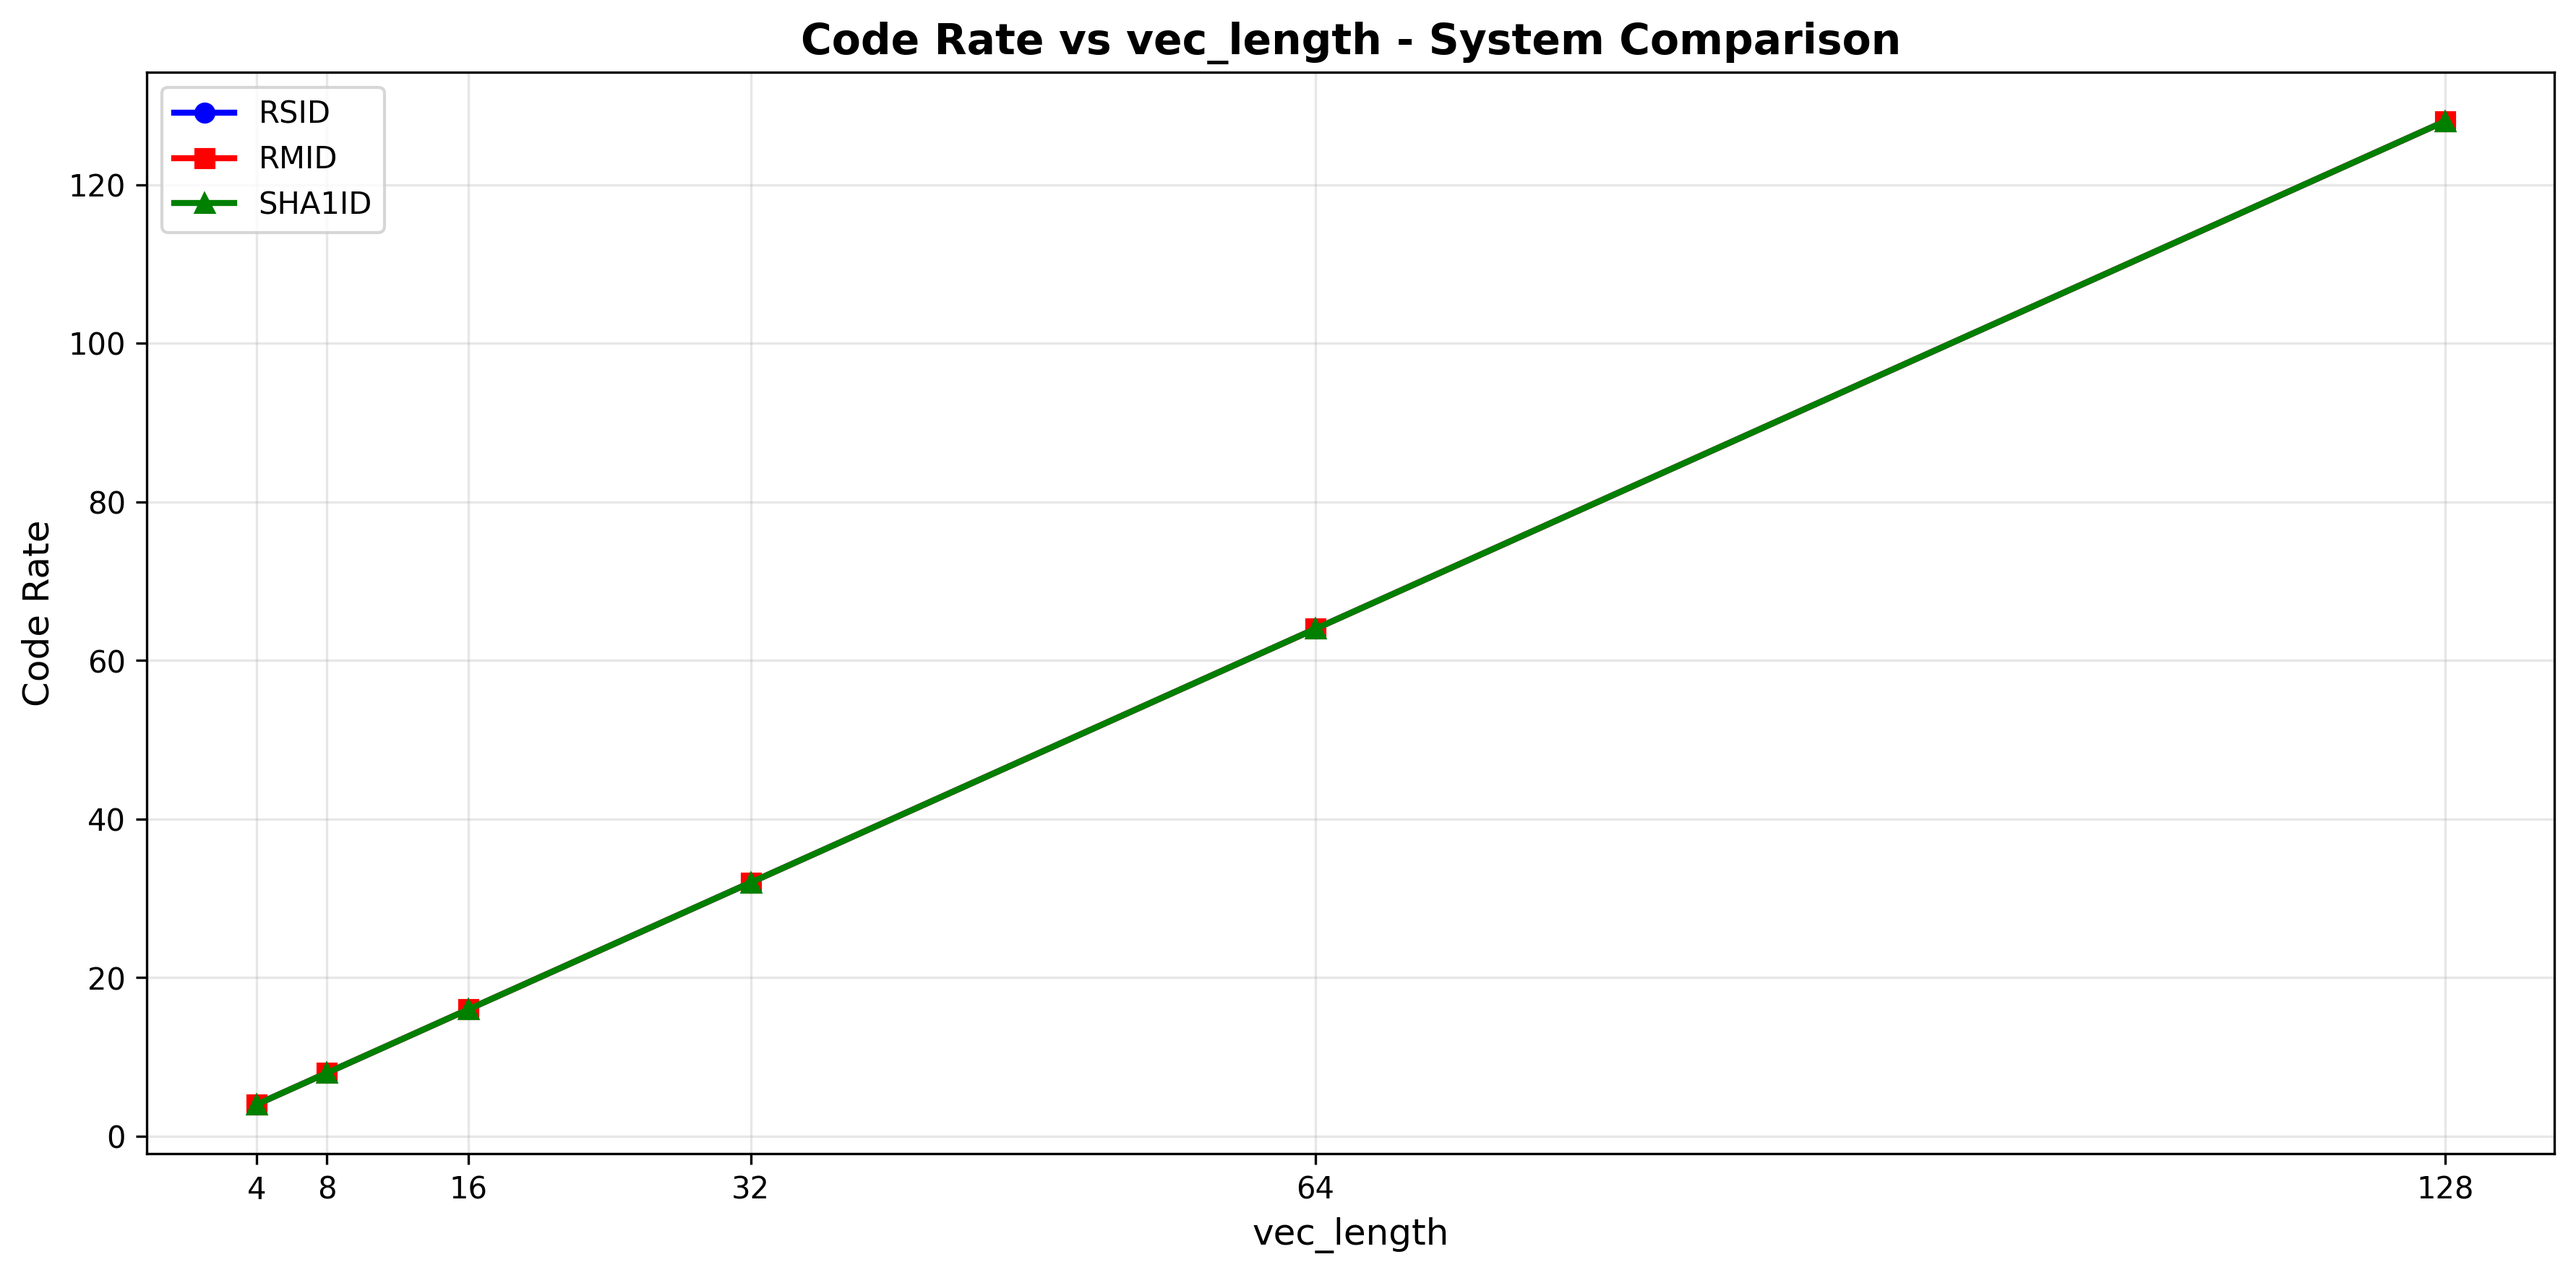
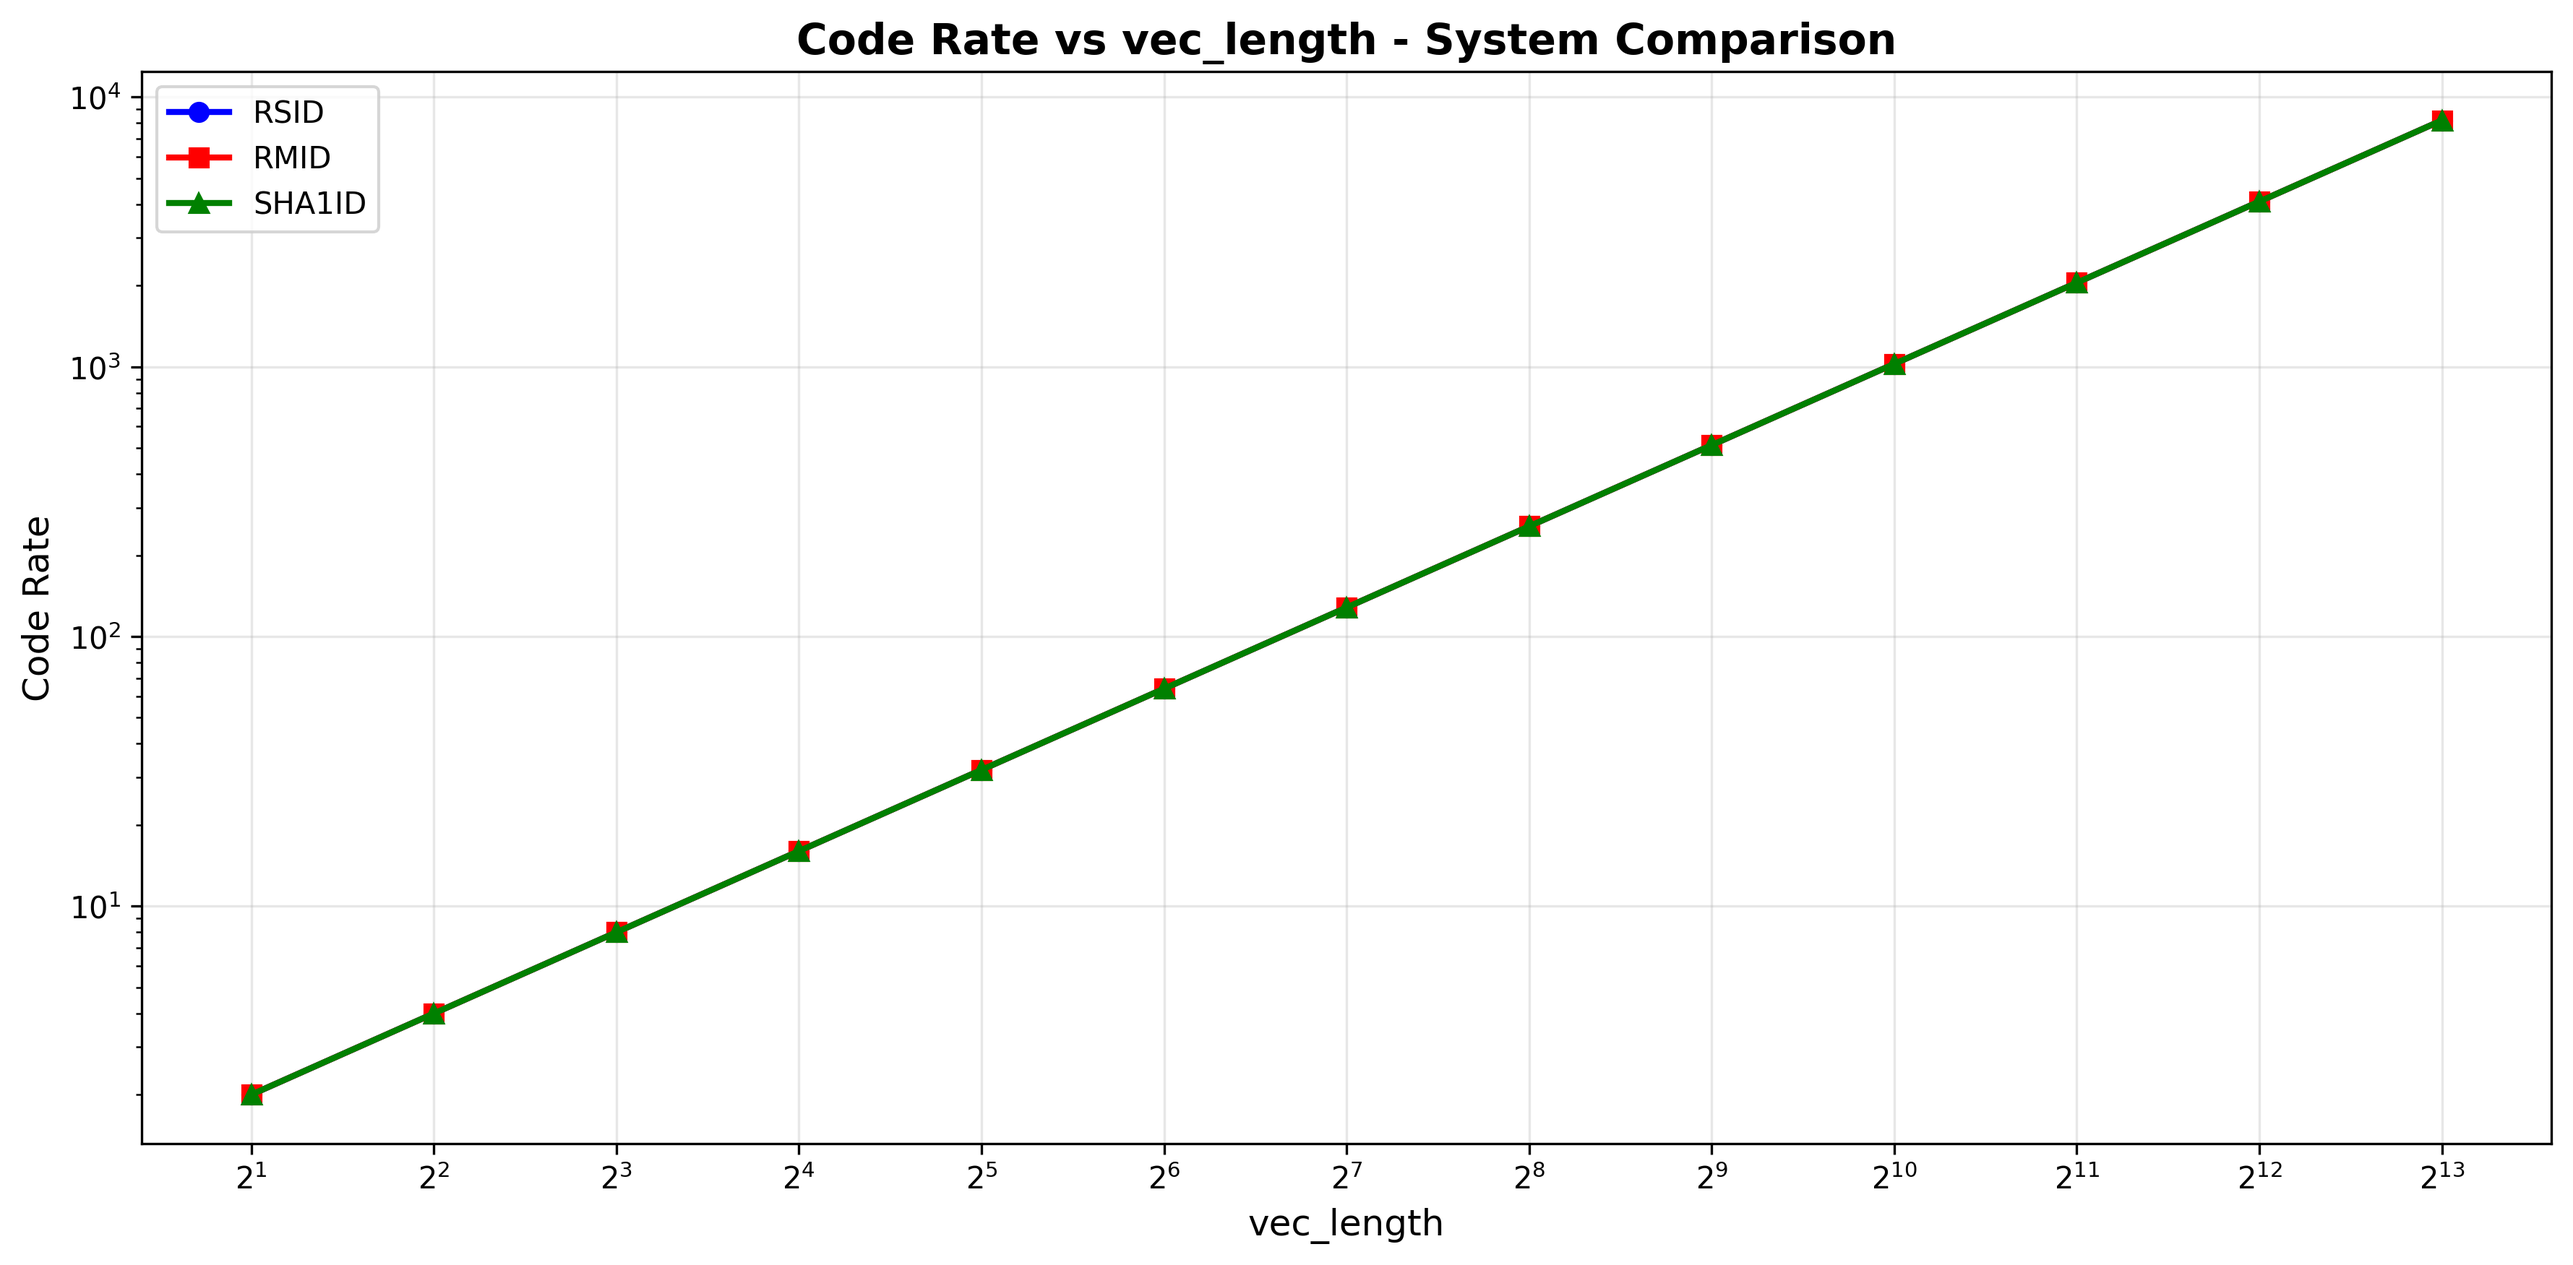
update: more trials and log scale

diff --git a/analyses/vec_length_influence/vec_length.py b/analyses/vec_length_influence/vec_length.py
@@ -11,14 +11,13 @@ def main():
     print("=" * 50)
 
     # Range of vec_length values to test
-    vec_lengths = [4, 8, 16, 32, 64, 128]
-    #vec_lengths = [10, 30, 50, 70, 90, 110]
+    vec_lengths = [2**i for i in range(1, 14)]
 
     # Create systems as a dictionary for compare_systems
     systems = {
-        "RSID": lambda vec_len: create_id_system("RSID", {"gf_exp": 8, "tag_pos": 2, "vec_len": vec_len}),
-        "RMID": lambda vec_len: create_id_system("RMID", {"gf_exp": 8, "tag_pos": 2, "vec_len": vec_len}),
-        "SHA1ID": lambda vec_len: create_id_system("SHA1ID", {"gf_exp": 8, "vec_len": vec_len})
+        "RSID": lambda vec_len: create_id_system("RSID", {"gf_exp": 8, "tag_pos": 2}),
+        "RMID": lambda vec_len: create_id_system("RMID", {"gf_exp": 8, "tag_pos": 2}),
+        "SHA1ID": lambda vec_len: create_id_system("SHA1ID", {"gf_exp": 8})
     }
 
     # Store results for each system
@@ -26,12 +25,12 @@ def main():
 
     for vec_len in vec_lengths:
         print(f"\nEvaluating with vec_length: {vec_len}")
-        messages = generate_test_messages(vec_len=vec_len, gf_exp=8, count=100)
+        messages = generate_test_messages(vec_len=vec_len, gf_exp=8, count=1000)
         system_instances = {name: make_sys(vec_len) for name, make_sys in systems.items()}
         metrics = IdMetrics.compare_systems(
             system_instances,
             messages,
-            num_trials=10000,
+            num_trials=800000,
             timing_iterations=1000,
             p_true_positive=0.5
         )
@@ -55,6 +54,7 @@ def main():
     plt.title('Reliability vs vec_length - System Comparison', fontsize=14, fontweight='bold')
     plt.xlabel('vec_length', fontsize=12)
     plt.ylabel('Reliability', fontsize=12)
+    plt.xscale('log', base=2)
     plt.grid(True, alpha=0.3)
     plt.legend(fontsize=10)
     plt.xticks(vec_lengths)
@@ -74,6 +74,8 @@ def main():
     plt.xlabel('vec_length', fontsize=12)
     plt.ylabel('Avg Execution Time (ms)', fontsize=12)
     plt.grid(True, alpha=0.3)
+    plt.xscale('log', base=2)
+    plt.yscale('log')
     plt.legend(fontsize=10)
     plt.xticks(vec_lengths)
     plt.tight_layout()
@@ -92,6 +94,8 @@ def main():
     plt.xlabel('vec_length', fontsize=12)
     plt.ylabel('Code Rate', fontsize=12)
     plt.grid(True, alpha=0.3)
+    plt.xscale('log', base=2)
+    plt.yscale('log')
     plt.legend(fontsize=10)
     plt.xticks(vec_lengths)
     plt.tight_layout()
